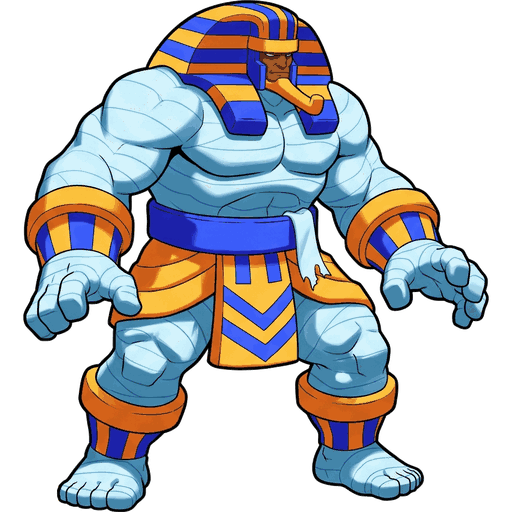
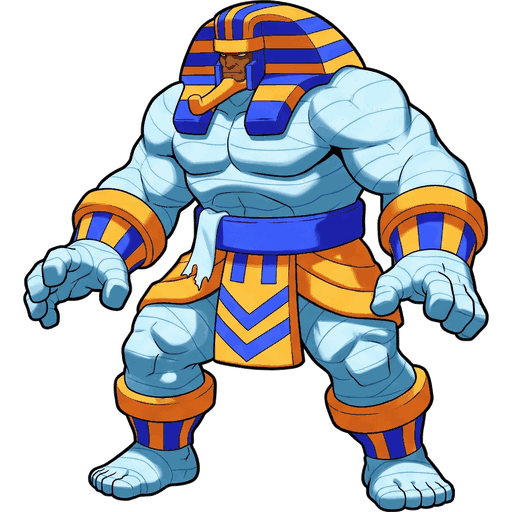
maj jeu

diff --git a/src/screens/Battle.jsx b/src/screens/Battle.jsx
@@ -313,14 +313,12 @@ export default function Battle({ auth, loadout, onExit, onHome, onGameOver, netM
           <div className="hpbar perso"><div className="hpfill" style={{width:(opp.php/opp.phpMax*100)+'%',background:'#ff7043'}}/></div>
           <div className="top" style={{marginTop:2}}><span>{opp.cr.n.toUpperCase()} {FAMILIES[opp.cr.f].i}</span><span>{opp.hp}/{opp.max}</span></div>
           <div className="hpbar"><div className="hpfill" style={{width:(opp.hp/opp.max*100)+'%',background:hpCol(opp)}}/></div>
-          {accBar(opp)}
-          {spdBar(opp)}
-          {gauges(opp)}
+          {/* Stats ennemi masquees (precision/vitesse/confiance/agressivite) : on ne garde que vie, PA et bonus/malus */}
           <div className="st">🍖{opp.food}/{opp.foodMax} 👖{opp.back.length} {statusTxt(opp)}</div>
         </div>
         {/* perso adverse en haut a droite */}
-        <div className="ent" id="oppPote" style={{right:4,top:4,left:'auto',width:120,height:170}}>
-          {(()=>{ const a=spriteFor('avatars',opp.avatar,'front'); return <img className="avspr" src={a.src} onError={onSpriteError(a.fallback)} style={{width:118}} alt=""/> })()}
+        <div className="ent" id="oppPote" style={{right:2,top:2,left:'auto',width:150,height:210}}>
+          {(()=>{ const a=spriteFor('avatars',opp.avatar,'front'); return <img className="avspr" src={a.src} onError={onSpriteError(a.fallback)} style={{width:148}} alt=""/> })()}
           {opp.front.length>0 && <div className="oppfrontcard" style={{left:-4,top:44,fontSize:22}} onClick={()=>setZoomCard(opp.front[0])}>🂠</div>}
         </div>
         {/* animal adverse : vers le centre (un peu a gauche du milieu), regarde a droite... vers le bas */}

diff --git a/src/styles/app.css b/src/styles/app.css
@@ -448,7 +448,7 @@ img{max-width:100%}
 
 /* ===== Avatars (skins perso) : vues deja orientees, JAMAIS de flip ===== */
 .avspr{display:block;object-fit:contain;object-position:bottom;image-rendering:auto;animation:bob 2.6s ease-in-out infinite}
-#oppPote .avspr{height:168px;width:auto;max-height:168px;filter:drop-shadow(-3px 2px 0 rgba(0,0,0,.25))}
+#oppPote .avspr{height:206px;width:auto;max-height:206px;filter:drop-shadow(-3px 2px 0 rgba(0,0,0,.25))}
 #myPote .avspr.avatarknee{height:230px;width:auto;max-height:230px;object-position:bottom;filter:drop-shadow(3px 2px 0 rgba(0,0,0,.25))}
 
 /* ===== Portraits persos (sélection) ===== */

diff --git a/src/version.js b/src/version.js
@@ -1,1 +1,1 @@
-export const VERSION = "0.11.0"
+export const VERSION = "0.11.1"
